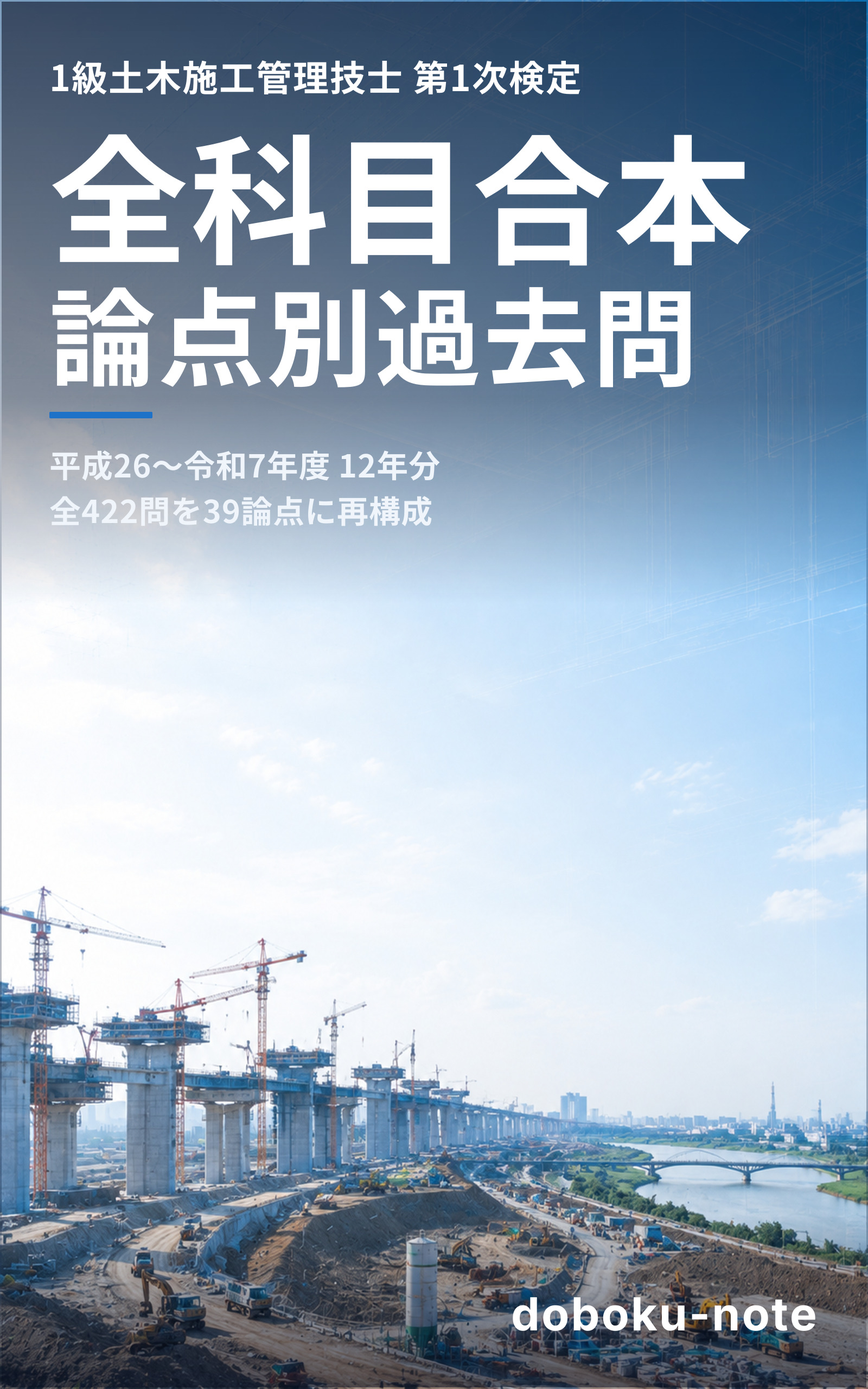
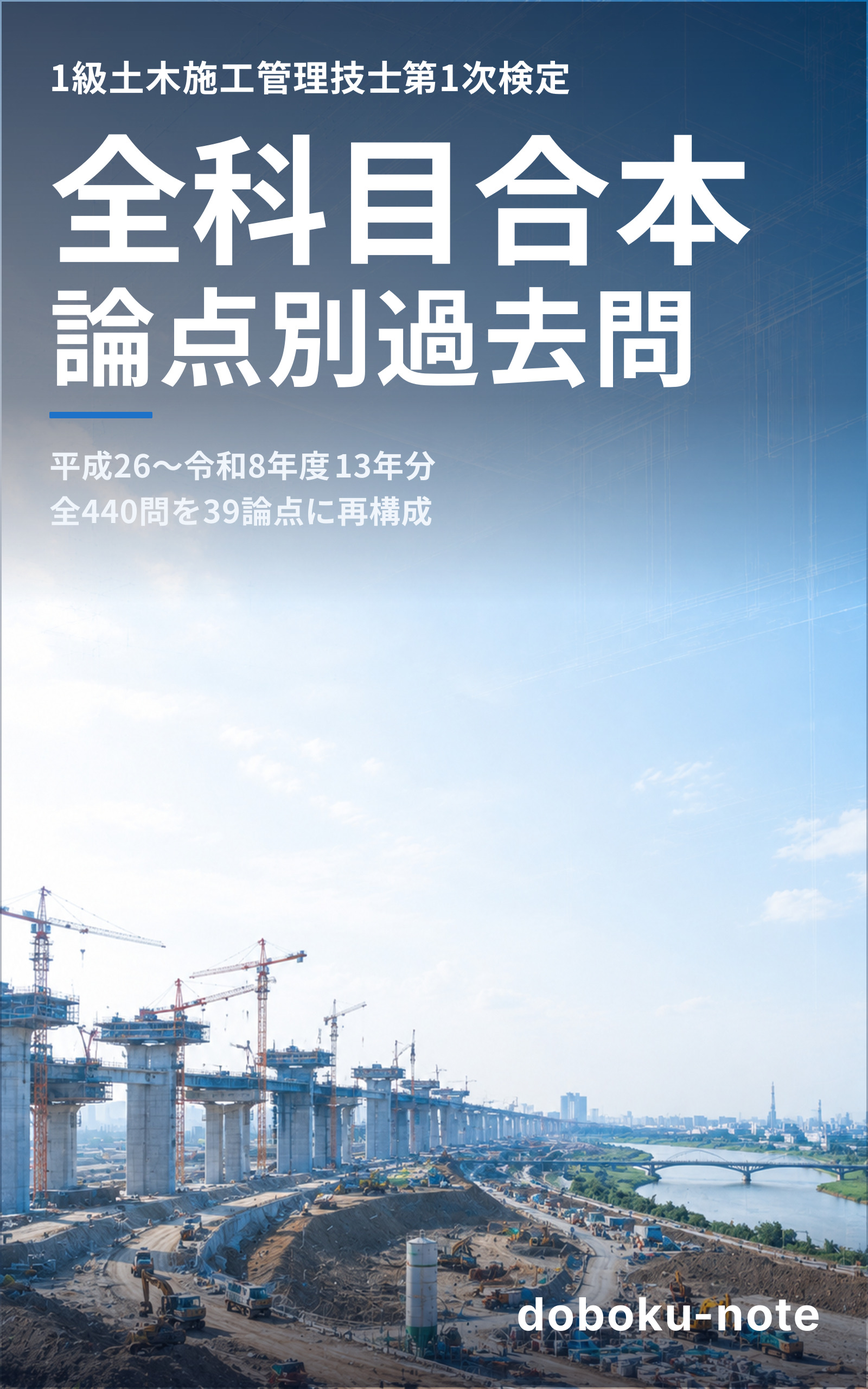
chore(kindle): A-00 と e-02 を令和8年度版（v1.1・¥1,650）として KDP に出版申請した記録
- e-02: KDP で書名・サブタイトル・説明文・検索語を更新し、原稿（26回・1263問・図114点）と表紙を差し替え、¥1,250→¥1,650 で出版申請（変更事項のレビュー中）
- A-00: サブタイトル・説明文・検索語を更新し、原稿（H26〜R08・440問）と表紙を差し替えて出版申請。KDP 差し替え用の最小の spec（scripts/kindle-specs/A-00.json）を新設。kdp-publish の原稿処理待ちが時間切れで止まったが、KDP 上の原稿が新ファイルであることを再確認して uploaded を記録
- 2 冊を version 1.1 に上げ、versionHistory に改版内容を記録。公開版の表紙（kindle-published）を差し替え（EPUB は git で更新しない規則のため再ビルドで再現）
- strategy.md に改版の判断と根拠を追記

diff --git a/content/kindle/strategy.md b/content/kindle/strategy.md
@@ -68,6 +68,7 @@
 > - 撤退（2026-11-10 実施）: 販売中だった F 系 8 冊（f-02・f-07・f-08・f-11・f-12・f-13・f-15・f-16）を KDP で出版停止。note の総監マガジンと同一原稿で、f-16 以外は 4 か月で ¥2〜¥54。続けて F 系 16 冊すべて（10-22 に止めた 8 冊を含む）を KDP の「本のアーカイブ」へ移した。本棚の「アーカイブ済みの本」に「下書き」のまま 16/16 冊あることを確認済み。ASIN は残り、「本のアーカイブ解除」と再出版で戻せる。**KDP のアーカイブは本棚から隠すだけで、販売中の本をアーカイブしても売れ続ける**（確認画面の文言）。撤退は必ず出版停止をしてからアーカイブする。
 > - **KDP セレクトの独占条件との抵触（要対応）**: セレクトの本は電子版を Amazon 以外で配れない（自サイトも不可）。9〜10 月に KENP がある C 系・b-reiwa・d-01〜03・e-01・e-02・g-01 などは、note の同じ原稿・同じ過去問解説（科目マガジン・択一 PDF）と併売している。C 系はセレクトを外し日本 35% で値付けを note 価格の範囲で見直す方針（価格案を出してから運営者が決める）。b-reiwa（総監 択一）は note 側の択一 PDF が 4 か月 ¥1,960 と小さいため、Kindle に残すか note 側を下げるかを別途決める。
 > - 次の注力: C 系 12 冊へ令和8年度 本試験の模範解答（note で 2026-11 に公開した 34 本）を足して改版する（ASIN 維持の差し替え・12 月の合格発表まで）。I・J 系の ready 23 冊は一括で出さず、i-02・i-03・i-04・j-02 を先に出して春の売れ方を見る。
+> - 1級一次の 2 冊を年度版に改版（2026-11-10 出版申請・v1.1）: 2 冊とも 7〜10 月の購入は 0 冊（印税は KENP だけ）で、値段より見つけてもらえていないことが課題。令和8年度の過去問（サイト primary-r08-a/b）を足し、A-00 は「H26〜R08・440問」、e-02 は「H26〜R08・26回・1263問・図114点」へ。サブタイトル・説明文・検索語（「令和8年度」「2027年受検」）・表紙を更新し、巻末にレビューのお願いを足した（商品ページのレビューは 0 件）。価格は 2 冊とも ¥1,650（70% 帯の上限）。違いは説明文で「論点別に暗記＝A-00／本番の形で通して解く＝e-02」と書き分けた。A-00 は KDP 差し替え用の最小の spec（`scripts/kindle-specs/A-00.json`）を足した。**2 冊とも KDP セレクト加入のまま note の 1級択一 PDF と中身が重なる（上の抵触の項）**。
 
 ### 編集軸の考え方
 
